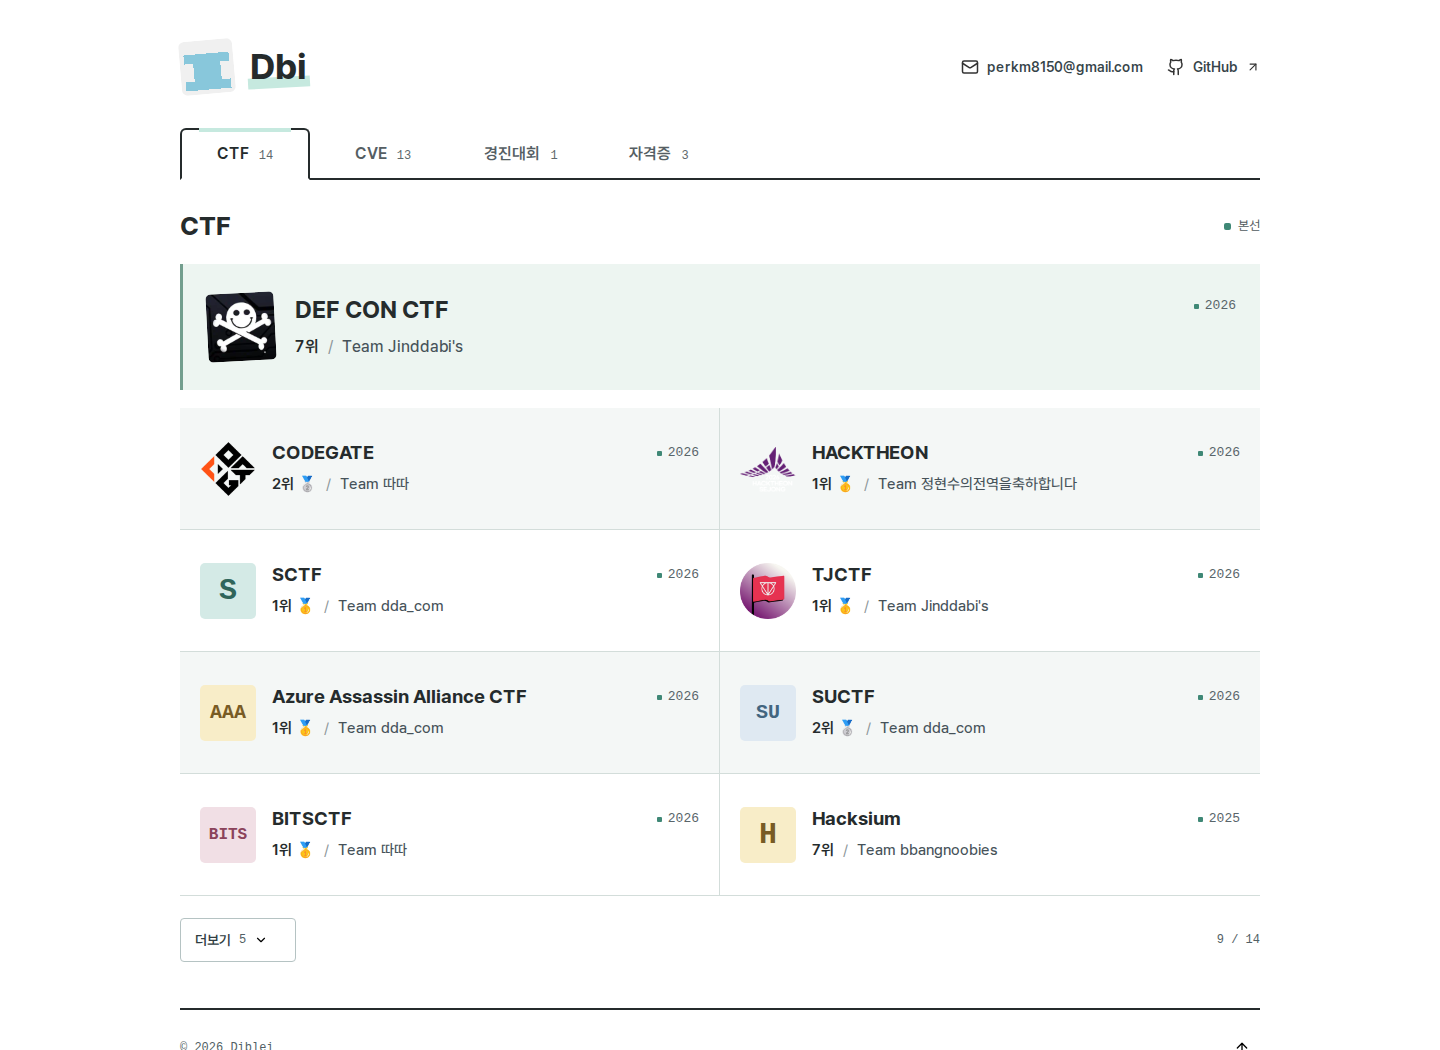
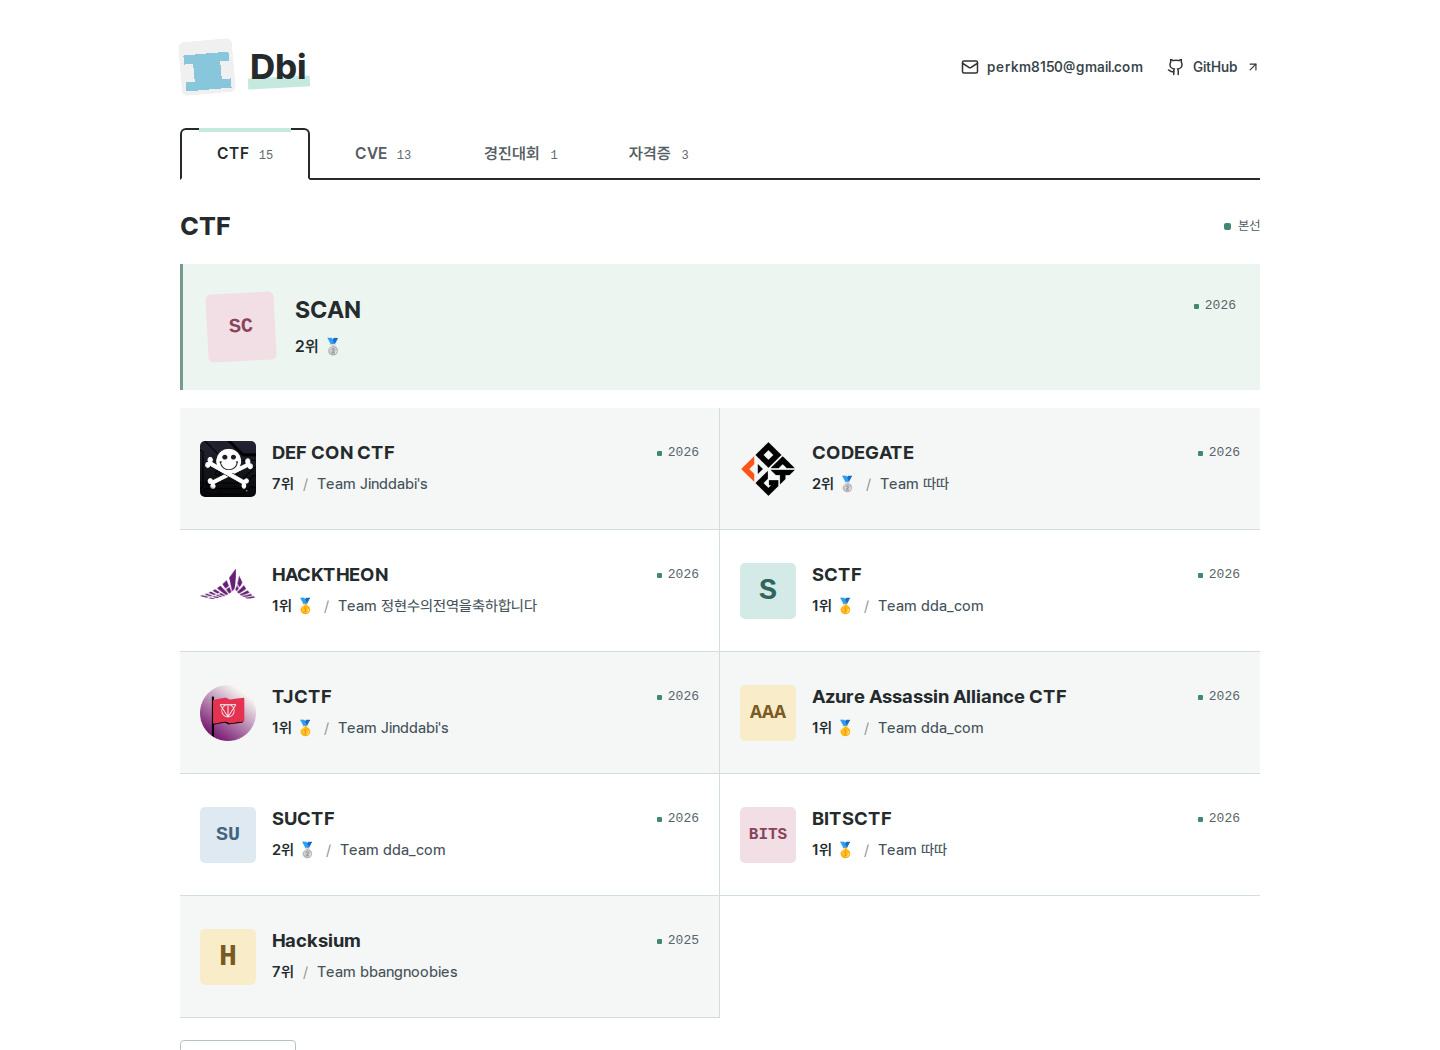
Add SCAN 2026 final second-place result

diff --git a/index.html b/index.html
@@ -54,7 +54,7 @@
       <nav class="site-nav" id="site-nav" aria-label="기록 카테고리">
         <a id="tab-ctf" class="category-ctf" href="#ctf">
           <span class="category-label"
-            >CTF <span class="category-count" data-total="ctf">14</span></span
+            >CTF <span class="category-count" data-total="ctf">15</span></span
           >
         </a>
         <a id="tab-cve" class="category-cve" href="#cve">
@@ -93,6 +93,21 @@
             </div>
           </div>
           <ul class="record-list" id="ctf-records">
+            <li class="record-final" data-event="scan-2026">
+              <span
+                class="record-mark mark-rose"
+                aria-hidden="true"
+                data-initials="SC"
+              ></span>
+              <span class="record-year">2026</span>
+              <span class="record-name">SCAN</span>
+              <strong class="record-result">
+                <span
+                  >2위 <span aria-hidden="true">🥈</span
+                  ><span class="sr-only">은메달</span></span
+                >
+              </strong>
+            </li>
             <li class="record-final" data-event="defcon-ctf-2026">
               <span class="record-mark" aria-hidden="true"
                 ><img
